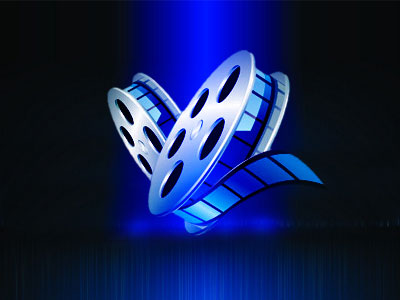
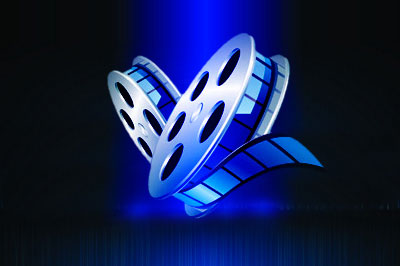
修改默认图片尺寸

Changed region(s): [[0.27, 0.1203, 0.81, 1.0], [0.99, 0.7519, 1.0, 0.782], [0.72, 0.9624, 0.75, 0.9925]]

diff --git a/scripts/app/study/subject/index/index.js b/scripts/app/study/subject/index/index.js
@@ -28,7 +28,7 @@ exports.store = {
             var subjects = this.models.subjects,
                 topics = this.models.topics;
             subjects.params.type = 2; // 资源类型为专题
-            topics.params = { limit: 8, type: 5 }; // 热门标签
+            topics.params = { limit: 8, type: 7 }; // 热门标签
             return this.chain(this.get(subjects), this.get(topics));
         },
         order: function(payload) {

diff --git a/scripts/app/ask/article/index.js b/scripts/app/ask/article/index.js
@@ -121,7 +121,6 @@ exports.buttons = [{
             img = $(str.substring(begin, end + 2));
             data.jsonImg = img[0].src;
         }
-        console.log(str);
         data.content = str;
         return this.dispatch('release', data);
     }
